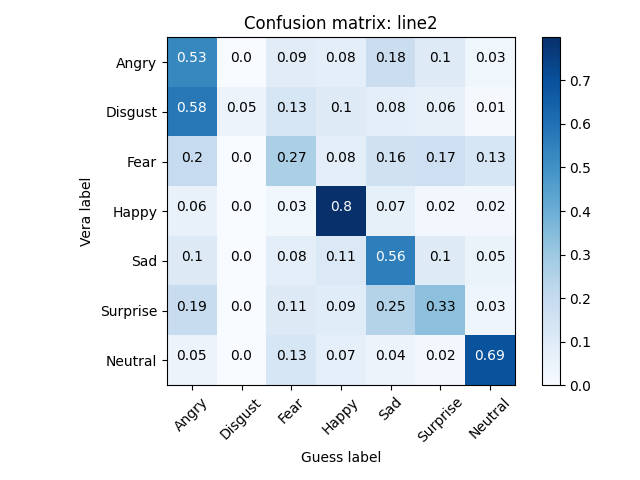
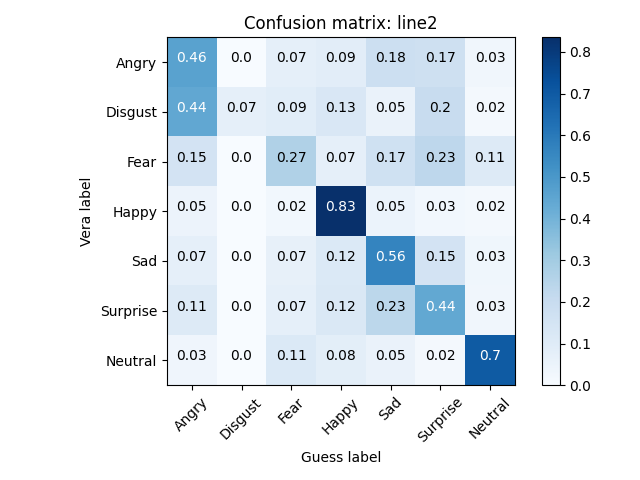
Small refactori

diff --git a/Progetto/Modelli/pyscript/try5.py b/Progetto/Modelli/pyscript/try5.py
@@ -12,23 +12,29 @@ def buildMod(imW, imH, numcl):
     model.add(Rescaling(1/255.))
 
     # Primo blocco convoluzionale
-    model.add(Conv2D(16, 3, padding="same", activation = "relu"))
+    model.add(Conv2D(16, 3, 
+                     padding="same", activation = "relu"))
     model.add(MaxPooling2D())
 
     # Secondo blocco convoluzionale
-    model.add(Conv2D(32, 3, padding="same", activation = "relu"))
+    model.add(Conv2D(32, 3, 
+                     padding="same", activation = "relu"))
     model.add(Dropout(0.1))
     model.add(MaxPooling2D())
 
     # Terzo blocco convoluzionale
-    model.add(Conv2D(64, 3, padding="same", activation = "relu"))
-    model.add(Conv2D(64, 3, padding="same", activation = "relu"))
+    model.add(Conv2D(64, 3, 
+                     padding="same", activation = "relu"))
+    model.add(Conv2D(64, 3, 
+                     padding="same", activation = "relu"))
     model.add(Dropout(0.2))
     model.add(MaxPooling2D())
 
     # Quarto blocco convoluzionale
-    model.add(Conv2D(128, 3, padding="same", activation = "relu"))
-    model.add(Conv2D(128, 3, padding="same", activation = "relu"))
+    model.add(Conv2D(128, 3, 
+                     padding="same", activation = "relu"))
+    model.add(Conv2D(128, 3, 
+                     padding="same", activation = "relu"))
     model.add(Dropout(0.3))
     model.add(MaxPooling2D())
 

diff --git a/Progetto/AnPy/perf.py b/Progetto/AnPy/perf.py
@@ -1,0 +1,32 @@
+import numpy as np
+import pandas as pd
+import seaborn as sns
+import tensorflow as tf
+import matplotlib.pyplot as plt
+
+from tensorflow.keras.models import load_model
+from sklearn.metrics import classification_report
+from tensorflow.keras.preprocessing.image import ImageDataGenerator
+
+
+model = load_model("../Modelli/line2_opt.keras")  
+datagen = ImageDataGenerator()
+valDat = datagen.flow_from_directory(
+    "../Dataset/test",
+    target_size=(48, 48),
+    color_mode="grayscale",
+    batch_size=64,
+    class_mode="categorical",
+    shuffle=False
+)
+print("Modello e dataset caricati")
+
+# Importo true labels e predizioni
+yTr = np.load("../Modelli/guess/trueG.npy")
+yPr = np.argmax(np.load("../Modelli/guess/line2_opt.npy"), axis = 1)
+cls = ['Angry', 'Disgust', 'Fear', 'Happy', 'Sad', 'Surprise', 'Neutral']
+
+# Creo dataframe
+appo = classification_report(yTr, yPr, target_names=cls, output_dict=True)
+df = pd.DataFrame(appo).transpose()
+df.to_csv("perf_line2.csv", float_format="%.4f")

diff --git a/Progetto/Modelli/pyscript/try2.py b/Progetto/Modelli/pyscript/try2.py
@@ -12,19 +12,23 @@ def buildMod(imW, imH, numcl):
     model.add(Rescaling(1/255.))
 
     # Primo blocco convoluzionale
-    model.add(Conv2D(16, 3, padding="same", activation="relu"))
+    model.add(Conv2D(16, 3, 
+                     padding="same", activation="relu"))
     model.add(MaxPooling2D())
 
     # Secondo blocco convoluzionale
-    model.add(Conv2D(32, 3, padding="same", activation="relu"))
+    model.add(Conv2D(32, 3, 
+                     padding="same", activation="relu"))
     model.add(MaxPooling2D())
 
     # Terzo blocco convoluzionale
-    model.add(Conv2D(64, 3, padding="same", activation="relu"))
+    model.add(Conv2D(64, 3, 
+                     padding="same", activation="relu"))
     model.add(MaxPooling2D())
 
     # Quarto blocco convoluzionale
-    model.add(Conv2D(128, 3, padding="same", activation="relu"))
+    model.add(Conv2D(128, 3, 
+                     padding="same", activation="relu"))
     model.add(MaxPooling2D())
 
     # Parte di classificazione

diff --git a/Progetto/Modelli/pyscript/try1.py b/Progetto/Modelli/pyscript/try1.py
@@ -12,15 +12,18 @@ def buildMod(imW, imH, numcl):
     model.add(Rescaling(1/255.))
 
     # Primo blocco convoluzionale
-    model.add(Conv2D(16, 3, padding="same", activation="relu"))
+    model.add(Conv2D(16, 3, 
+                     padding="same", activation="relu"))
     model.add(MaxPooling2D())
 
     # Secondo blocco convoluzionale
-    model.add(Conv2D(32, 3, padding="same", activation="relu"))
+    model.add(Conv2D(32, 3, 
+                     padding="same", activation="relu"))
     model.add(MaxPooling2D())
 
     # Terzo blocco convoluzionale
-    model.add(Conv2D(64, 3, padding="same", activation="relu"))
+    model.add(Conv2D(64, 3, 
+                     padding="same", activation="relu"))
     model.add(MaxPooling2D())
 
     # Parte di classificazione
